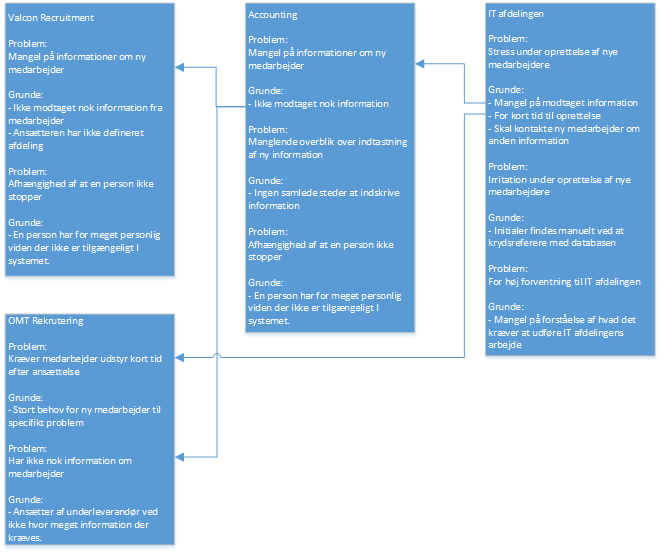
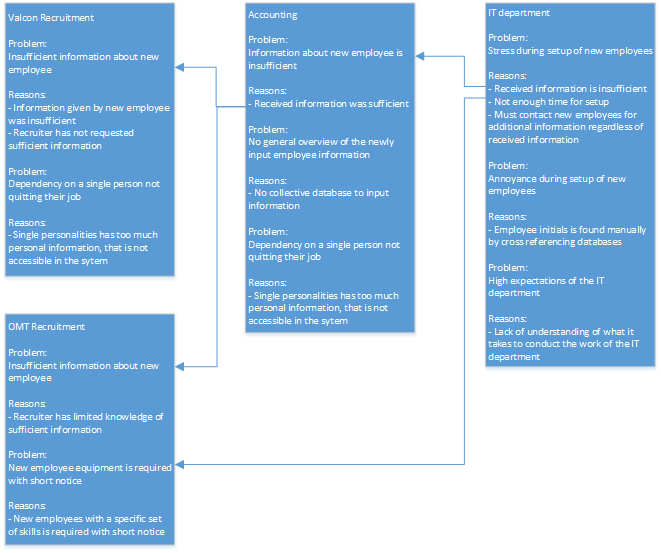
Updated problem chart and process chart to english

diff --git a/inline/the_process.tex b/inline/the_process.tex
@@ -10,4 +10,6 @@ Entering newly hired employees into the systems at Valcon involves the following
 Since the process should in its entirety be transparent to new employees we have decided not to perform further analysis of this work area.
 The remaining work areas are however subject to interview and analysis. \\
 
-A visual representation of the organization as well as the work domains to research can be seen in appendix \ref{app:OrganizationalChart}
+A visual representation of the organization as well as the work domains to research can be seen in appendix \ref{app:OrganizationalChart}.
+
+This is based on information retrieved from interview \ref{app:danni_initiation}.

diff --git a/appendix/problem_chain.tex b/appendix/problem_chain.tex
@@ -1,5 +1,7 @@
 \label{app:ProblemChain}
 
-\includegraphics[scale=0.75]{appendix/ProblemChain.png}
+Problem chain visualizing the origin of each problem.
+The origin reason of a problem are the ones that are not affiliated with a problem in another work area.
+These problems are the most important to look into.
 
-\todo{Oversæt til engelsk}
+\includegraphics[scale=0.75]{appendix/ProblemChain.png}

diff --git a/appendix/process_chart.tex b/appendix/process_chart.tex
@@ -1,3 +1,6 @@
 \label{app:ProcessChart}
 
+This chart visualises the process.
+If two arrows point to one square, both actions must be completed before continuing with the next task.
+
 \includegraphics[scale=0.325]{appendix/ProcessFlowChart.png}
